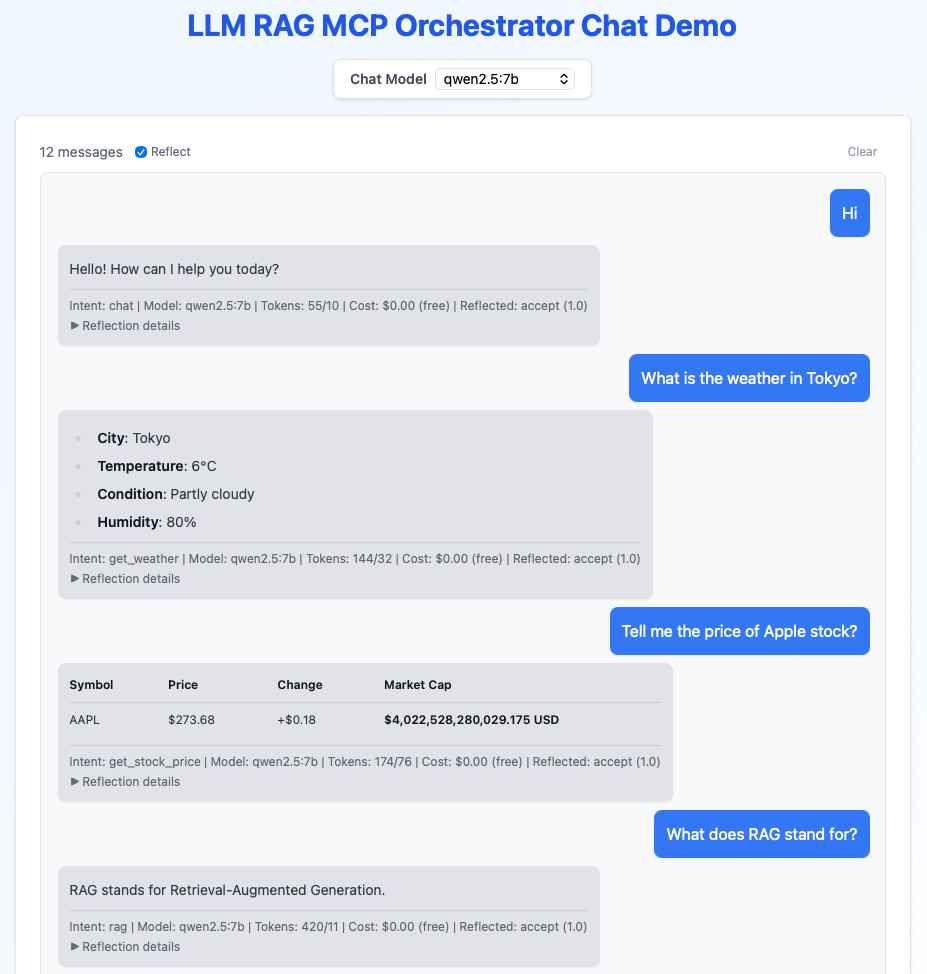
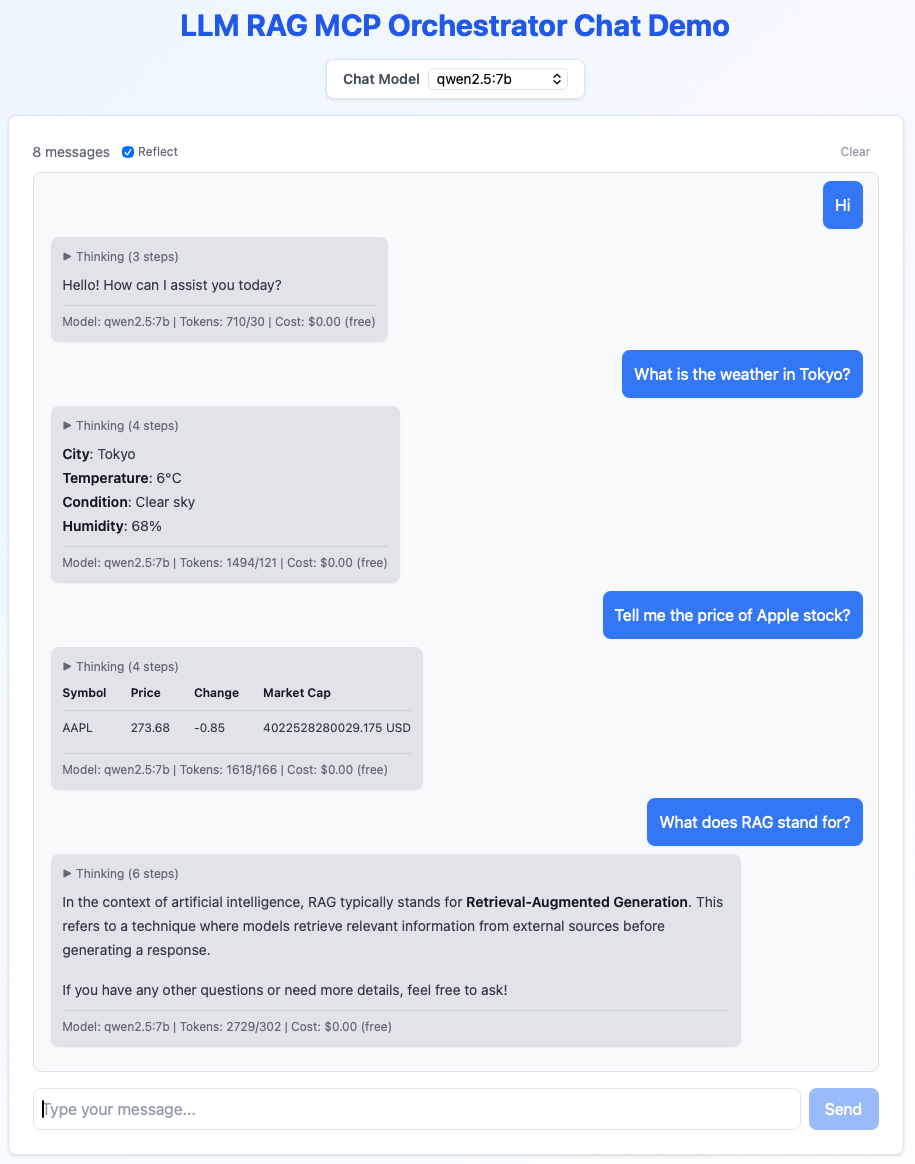
update thinking mode

diff --git a/backend/src/backend/orchestrator/router.py b/backend/src/backend/orchestrator/router.py
@@ -30,10 +30,14 @@ SYSTEM_PROMPT = """You classify user intent and route to specialized agents.
 Available agents:
 {descriptions}
 
-Rules:
-- For a SINGLE question, return exactly ONE intent — pick the best agent.
-- For queries with MULTIPLE distinct questions, return one intent per question.
-Each intent needs: "intent" (agent type) and "params" (extracted parameters).
+Guidelines:
+1. Be EXTREMELY STRICT. Only route to an agent if the user's query explicitly and clearly requires it.
+2. 'smalltalk' and 'chat' are MUTUALLY EXCLUSIVE for simple queries. Never return both for a single greeting like "Hi".
+3. For simple greetings, social pleasantries, or very brief small talk (e.g., "Hi", "Hello", "How are you?"), use ONLY the 'smalltalk' intent.
+4. For complex general knowledge questions, explanations, reasoning, or creative writing that DO NOT require RAG or specific tools, use the 'chat' intent.
+5. Do NOT add any extra intents, tools, or parameters that are not directly requested.
+6. Only return multiple intents if the user has provided MULTIPLE distinct and explicit questions or commands (e.g., "Hi, tell me about Mars").
+7. Each intent needs: "intent" (agent type) and "params" (extracted parameters).
 
 Parameters by intent:
 {params_lines}
@@ -81,11 +85,13 @@ class Router:
     async def __call__(self, state: dict) -> Command:
         query = state["query"]
         exclude_agent = None
+        suggested_agent = None
 
         feedback = state.get("reflection_feedback")
         if feedback and feedback.get("action") == "reroute":
             query = feedback["query"]
             exclude_agent = feedback.get("exclude_agent")
+            suggested_agent = feedback.get("suggested_agent")
 
         result = await self.execute(
             model=state["orchestrator_model"],
@@ -93,13 +99,34 @@ class Router:
             history=state["history"],
         )
 
-        # If the router picked the same agent that just failed, fall back.
-        if exclude_agent:
-            for intent in result.intents:
-                if intent["agent"] == exclude_agent:
-                    fallback = feedback.get("suggested_agent") or "TalkAgent"
-                    logger.info(f"Excluding failed agent {exclude_agent}, falling back to {fallback}")
-                    intent["agent"] = fallback
+        # Handle reroute:
+        # If we were rerouting a specific failed agent in a multi-intent sequence,
+        # we want to replace JUST that agent in the original sequence, not the whole list.
+        current_intents = list(state.get("intents", []))
+        if exclude_agent and current_intents:
+            idx = state.get("current_intent_index", 0) - 1
+            if 0 <= idx < len(current_intents) and current_intents[idx]["agent"] == exclude_agent:
+                # Use the first intent from the new routing as the replacement
+                new_intent = result.intents[0] if result.intents else None
+                if not new_intent or new_intent["agent"] == exclude_agent:
+                    fallback = suggested_agent or "TalkAgent"
+                    new_intent = {
+                        "intent": "chat",
+                        "agent": fallback,
+                        "params": {"query": query}
+                    }
+                
+                logger.info(f"Rerouting intent {idx}: {exclude_agent} -> {new_intent['agent']}")
+                current_intents[idx] = new_intent
+                return Command(
+                    update={
+                        "intents": current_intents,
+                        "current_intent_index": idx, # stay at this index to execute replacement
+                        "router_input_tokens": result.input_tokens,
+                        "router_output_tokens": result.output_tokens,
+                    },
+                    goto="agent",
+                )
 
         return Command(
             update={

diff --git a/backend/src/backend/orchestrator/reflector.py b/backend/src/backend/orchestrator/reflector.py
@@ -93,14 +93,19 @@ class Reflector:
             agent_success=state.get("agent_success", True),
         )
 
-        # For multi-intent queries, don't retry individual intents —
-        # the next intent in the queue may provide a better answer.
-        if len(state.get("intents", [])) > 1 and result.action == "retry":
-            logger.info("Multi-intent query: converting retry to accept")
-            result = ReflectionResult(
-                action="accept", score=result.score, feedback=result.feedback,
-                input_tokens=result.input_tokens, output_tokens=result.output_tokens,
-            )
+        # For multi-intent queries, we allow reroute (to fix hallucinated tools)
+        # but convert retry to reroute-to-chat to ensure we don't loop forever
+        # on a single intent's details.
+        if len(state.get("intents", [])) > 1:
+            if result.action == "retry":
+                logger.info("Multi-intent query: converting retry to reroute(TalkAgent)")
+                result = ReflectionResult(
+                    action="reroute", score=result.score, feedback=result.feedback,
+                    suggested_agent="TalkAgent",
+                    input_tokens=result.input_tokens, output_tokens=result.output_tokens,
+                )
+            elif result.action == "reroute":
+                logger.info(f"Multi-intent query: allowing reroute from {intent_data.get('agent')}")
 
         reflection_feedback = {
             "action": result.action,

diff --git a/backend/src/backend/orchestrator/orchestrator.py b/backend/src/backend/orchestrator/orchestrator.py
@@ -94,7 +94,7 @@ async def _agent_node(state: dict, agents: dict, agent_models: dict) -> Command:
     if not is_reflection:
         updates["reflection_count"] = 0
 
-    goto = "reflector" if state.get("use_reflection", False) else "check_next"
+    goto = "reflector" if state.get("use_reflection", False) and intent_data.get("intent") != "smalltalk" else "check_next"
     return Command(update=updates, goto=goto)
 
 
@@ -151,17 +151,20 @@ class Orchestrator:
         # Build agents: hardcoded non-MCP agents + dynamic MCP handlers
         self._agents = {
             "TalkAgent": TalkAgent(),
+            "SmalltalkAgent": TalkAgent(), # Same underlying logic
             "RAGAgent": RAGAgent(self._embedder),
         }
 
         # Map agent name → state key for model selection
         agent_models = {
             "TalkAgent": "model",
+            "SmalltalkAgent": "model",
             "RAGAgent": "rag_model",
         }
 
         routing: dict[str, RoutingMeta] = {
-            "TalkAgent": RoutingMeta("chat", "General conversation, greetings", {}),
+            "TalkAgent": RoutingMeta("chat", "Complex general knowledge questions, explanations, or creative writing", {}),
+            "SmalltalkAgent": RoutingMeta("smalltalk", "Simple greetings, social pleasantries, or very brief small talk", {}),
             "RAGAgent": RoutingMeta("rag", "Knowledge base / documentation questions", {"query": "question"}),
         }
 

diff --git a/README.md b/README.md
@@ -21,6 +21,12 @@ User ─► React UI ─► FastAPI ─► Orchestrator (LangGraph)
 
 The orchestrator classifies each query, routes it to the right agent, and optionally reflects on the response quality before returning it. Multi-intent queries (e.g. "AAPL price and Tokyo weather") are split and handled sequentially.
 
+### Thinking UI & Reflection
+
+The UI streams orchestration steps in real time via SSE — routing decisions, agent outputs, and reflection evaluations appear as they happen. The thinking section auto-collapses once the final answer arrives.
+
+<img src="images/thinking-ui.png" alt="Thinking UI showing orchestration steps" style="display: block; margin-left: auto; margin-right: auto; border-radius: 5px;" width="700"/>
+
 ## Quick Start
 
 ### Prerequisites
